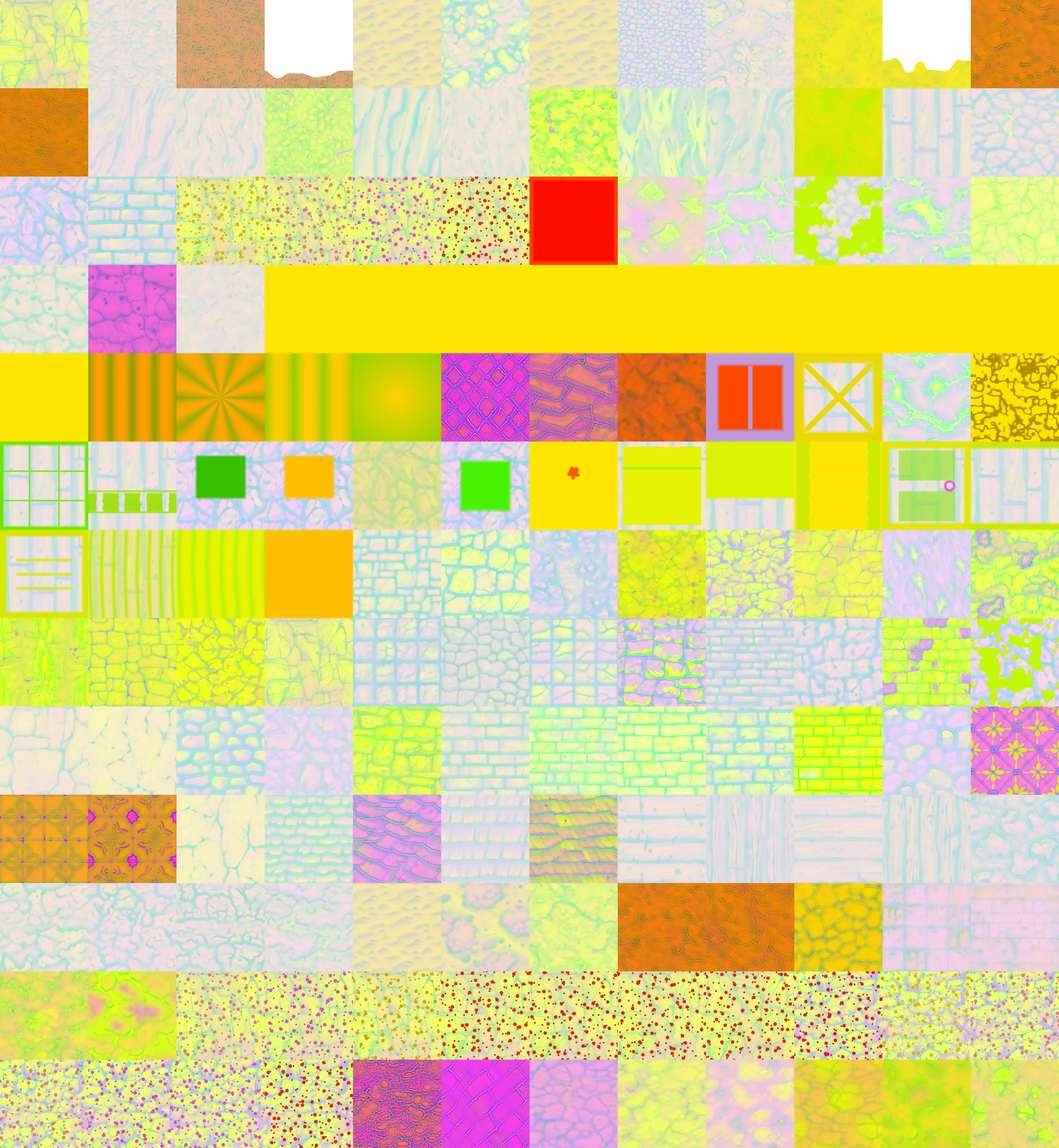
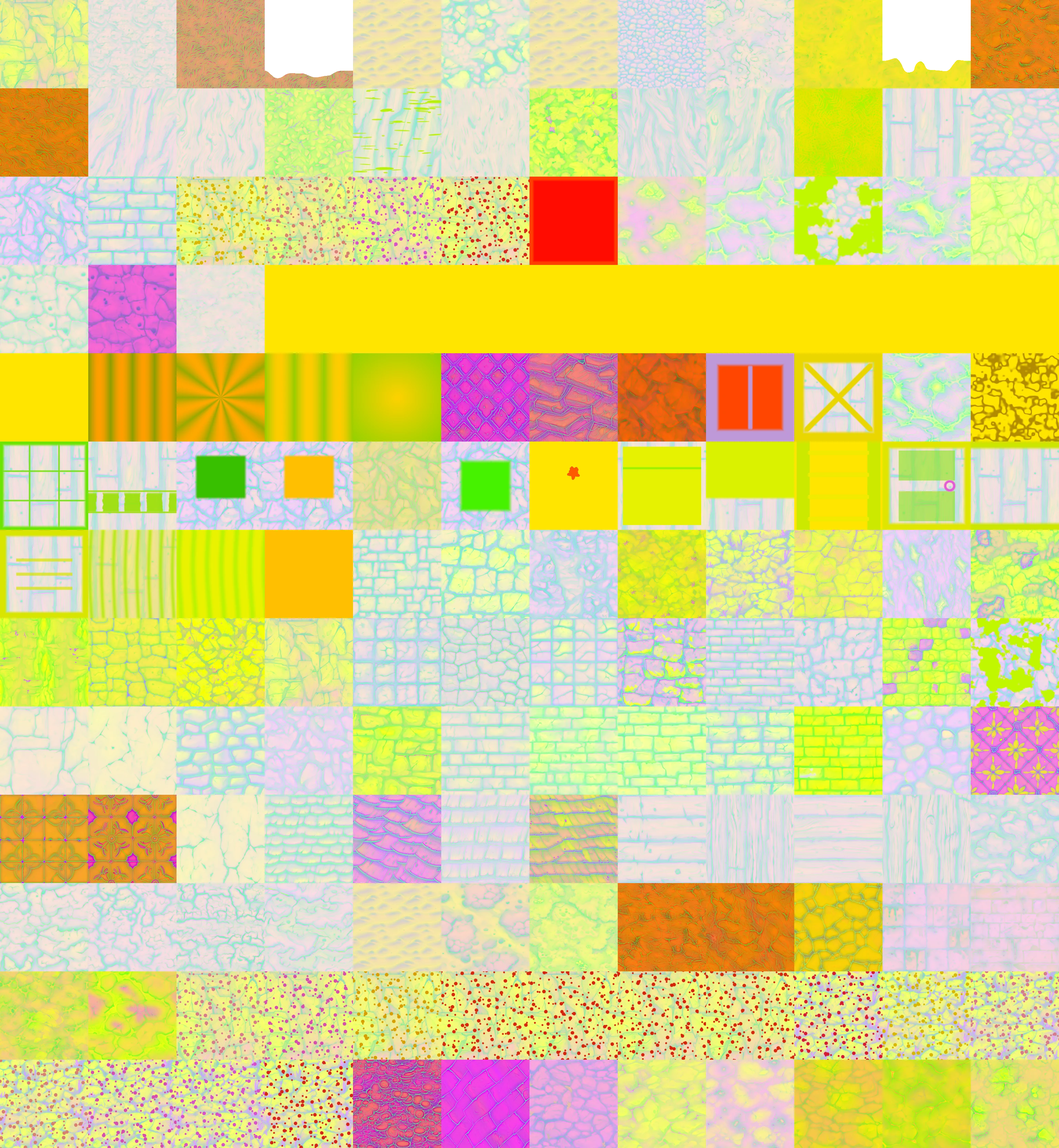
Give the pine a conifer's bark and the birch its marks.
Oak is the reference and is untouched. The other two were both wrong in
PATTERN while sitting correctly on the luminance ladder, so both are fixed
without moving a single rung of it.

Pine changes variant. Tree Bark/1 is a blond swirl - irregular flame-shaped
blotches with no consistent direction - and it failed at both ends of the
range at once: close up in a pine forest it is polished plywood, and in the
tundra at fifteen blocks, where the mip has taken the fine grain off and left
only the blotches, it is a brown zigzag that reads as camouflage wrap. One
picture, two reports. Tree Bark/9 is craggy split bark with deep vertical
furrows, which is both what a conifer has and, more usefully, DIRECTIONAL: a
blotch mips into a smear, a furrow mips into a vertical streak, and a vertical
streak on a standing trunk is still a trunk. It needs no rot90 either.

Birch gets lenticels, drawn rather than sourced. Nothing in the pack is birch
- all ten Tree Bark variants are oak, pine or generic hardwood - and what
makes a birch a birch at a glance is not its colour but that its marks run
ACROSS the trunk while its grain runs up it. So the bark tile now takes a
procedural decal over its own pack material, the same shape as the mossy pair
except that the material underneath is the same tile rather than a parent
block. That is what SELF_DECALS is.

The ladder is re-measured and holds, tops still +14 over their own sides:
[…]

Changed region(s): [[0.5625, 0.0625, 0.6875, 0.1562], [0.375, 0.0625, 0.4062, 0.125], [0.3438, 0.125, 0.375, 0.1562]]

diff --git a/src/render/TextureGen.js b/src/render/TextureGen.js
@@ -566,6 +566,101 @@ G.mossy_stone_brick = (s) => moss(s, {
   dark: [58, 80, 42], lite: [122, 146, 84],
 });
 
+// --- detail composited over a tile's OWN pack material ---------------------
+// The two below are decals like the mossy pair, except that the material
+// underneath is the SAME tile's pack bake rather than a different block's. See
+// SELF_DECALS in scripts/bake-textures.mjs for the compositing step; here they
+// are just alpha-masked detail, and nothing in the shipped game ever draws them
+// on their own (the runtime always loads the baked atlas — loadTileAtlas throws
+// rather than falling back to this module).
+
+/**
+ * Wrap-around soft dash, used for birch lenticels. Everything is drawn modulo
+ * the tile so a mark that runs off the right edge comes back on the left, which
+ * is the only way a hand-placed mark survives on a tiling texture — a lenticel
+ * clipped at the edge would draw a hairline down every block join.
+ */
+function dash(s, cx, cy, halfLen, halfThick, col, alpha, tilt = 0) {
+  const size = s.size;
+  const pad = Math.ceil(halfLen + halfThick + 2);
+  for (let oy = -pad; oy <= pad; oy++) {
+    for (let ox = -pad; ox <= pad; ox++) {
+      // rotate into the dash's own frame, then treat it as a rounded capsule
+      const c = Math.cos(tilt), sn = Math.sin(tilt);
+      const lx = ox * c + oy * sn, ly = -ox * sn + oy * c;
+      // ends taper rather than stopping square: a lenticel is a lens
+      const t = Math.abs(lx) / halfLen;
+      if (t >= 1) continue;
+      const th = halfThick * Math.sqrt(1 - t * t);
+      const m = smoothstep(th + 0.9, th - 0.4, Math.abs(ly)) * alpha;
+      if (m <= 0.01) continue;
+      // Rounded, and this is not cosmetic: a fractional index into a
+      // Float32Array reads `undefined` and writes nowhere, so the first version
+      // of this — which passed `rng() * size` straight through — drew a
+      // perfectly correct set of lenticels into the void and baked a tile that
+      // measured, to a tenth of a count, exactly the tile without them.
+      const x = ((((cx + ox) | 0) % size) + size) % size;
+      const y = ((((cy + oy) | 0) % size) + size) % size;
+      const i = y * size + x;
+      if (m <= s.a[i]) continue;
+      setRGB(s, i, px(col));
+      s.a[i] = m;
+      s.h[i] = 0.16;          // a lenticel is a slit, so it reads as a dent
+      s.ao[i] = 0.72;
+      s.rough[i] = 0.95;
+    }
+  }
+}
+
+/**
+ * Birch lenticels.
+ *
+ * The bark tile itself is Tree Bark/3 turned upright and desaturated (see the
+ * MAP entry), and as a picture that is a pale slabby bark running vertically —
+ * which is what the recon pass called "grey-lavender marble with no birch
+ * marks". Nothing in the pack is birch; every bark variant was contact-sheeted
+ * and the ten of them are oak, pine and generic hardwood. So the species mark
+ * is drawn rather than sourced, exactly as the mossy pair are.
+ *
+ * What makes a birch a birch at a glance is one thing and it is not the colour:
+ * it is that the marks run ACROSS the trunk while the grain runs up it. The
+ * dashes here are horizontal, they are the only horizontal thing on the tile,
+ * and that single cross-grain is worth more than any exposure change — a pale
+ * trunk with vertical marks is a poplar.
+ *
+ * Two scales, because a birch has two kinds of mark: many small lenticels, and
+ * a few big black scars where a branch was shed, each with a lifted lip under
+ * it. Without the scars the tile reads as pinstripe fabric; without the small
+ * ones the scars read as damage. Coverage is deliberately under a twentieth of
+ * the tile — the ladder puts this bark at the pale end and a heavy hand here
+ * walks it straight back down it.
+ */
+G.log_birch = (s) => {
+  clearAlpha(s);
+  const rng = makeRng(2207);
+  const size = s.size;
+  const k = size / 256;                       // authored at the baked size
+  // small lenticels
+  for (let n = 0; n < 54; n++) {
+    const len = (4 + rng() * 20) * k;
+    const th = (0.9 + rng() * 1.1) * k;
+    dash(s, rng() * size, rng() * size, len, th,
+      // not black: a lenticel is a corky slit, and pure black on a 180-count
+      // bark is a drawn line rather than a hole in a surface
+      [52 + rng() * 26, 44 + rng() * 22, 40 + rng() * 20], 0.72 + rng() * 0.22,
+      (rng() - 0.5) * 0.16);
+  }
+  // shed-branch scars: a long dark lens with a pale lip along its underside
+  for (let n = 0; n < 4; n++) {
+    const cx = rng() * size, cy = rng() * size;
+    const len = (16 + rng() * 16) * k;
+    dash(s, cx, cy, len, (2.4 + rng() * 1.6) * k, [30, 25, 23], 0.95, (rng() - 0.5) * 0.2);
+    dash(s, cx, cy + 3.2 * k, len * 0.86, 1.2 * k, [226, 219, 205], 0.55, (rng() - 0.5) * 0.2);
+  }
+  s.normalStrength = 1.0;
+  return s;
+};
+
 G.glass = (s) => {
   const f = fbm(s.size, 12, 3, 541);
   s.each((i, x, y, u, v) => {
